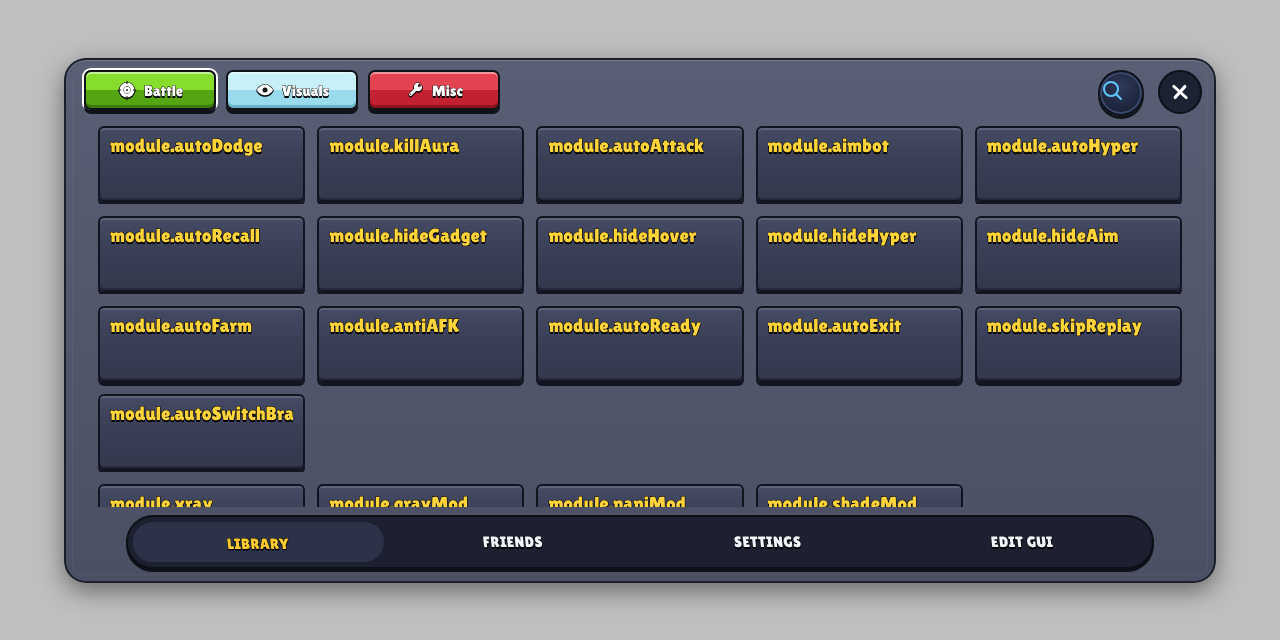
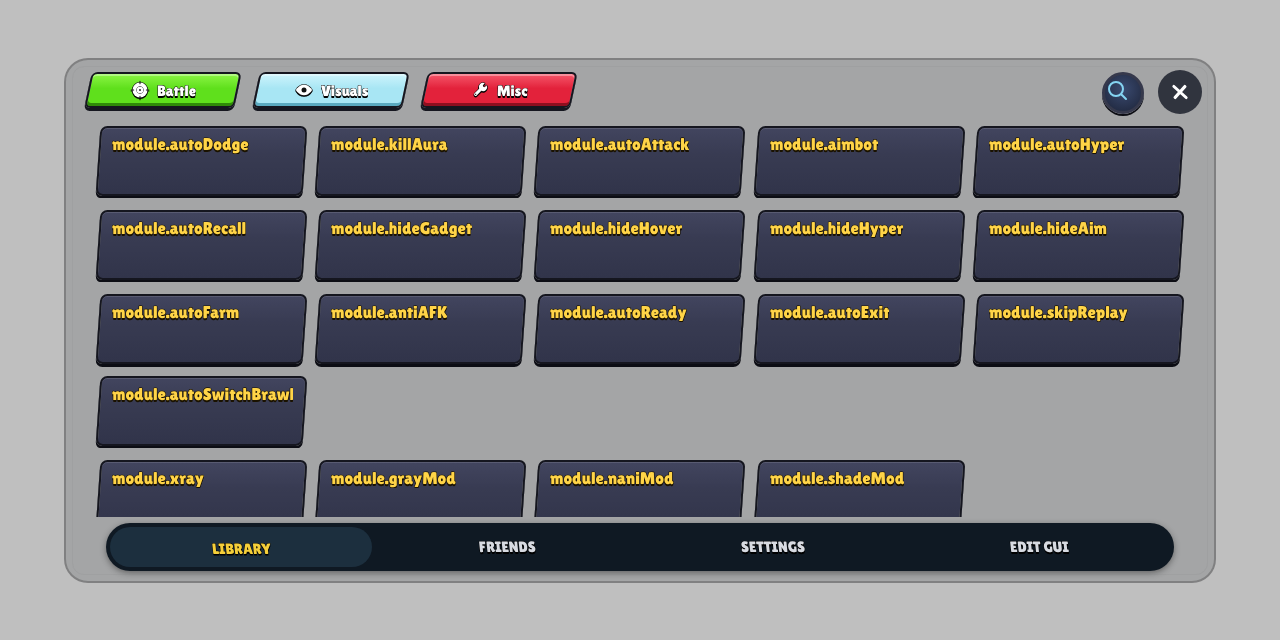
Match Tale Stars colors and shapes measured from reference
Transparent frame, skewed tabs and cards, near-black bottom bar,
Tale palette forced on all themes and popups, real module descriptions.

Claude-Session: https://claude.ai/code/session_01JmN1VkfGL2te8USe1pmgwt

diff --git a/tools/tale_menu/tale_patch.py b/tools/tale_menu/tale_patch.py
@@ -10,45 +10,45 @@ def block(marker):
     return i, n
 
 TALE_CSS = r"""
+:host,:host([data-theme]){--scrim:rgb(0 0 0/.25)!important;--window-bg:#41465c!important;--window-border:#11131c!important;--window-shadow:0 8px 24px #0007!important;--edge:#11131c!important;--topbar-bg:#1c2030!important;--topbar-line:#11131c!important;--topbar-inset:#fff1!important;--sidebar-bg:transparent!important;--sidebar-line:#11131c!important;--content-bg:transparent!important;--panel-bg:#363b51!important;--panel-border:#11131c!important;--panel-shadow:0 3px 0 #11131c!important;--panel-divider:#0003!important;--text:#f2f4fa!important;--text-muted:#c9d0e3!important;--text-faint:#9aa3bb!important;--btn-top:#4a5069!important;--btn-bottom:#373c52!important;--btn-shadow:#11131c!important;--btn-border:#11131c!important;--btn-text:#fff!important;--btn-stroke:#000!important;--btn-active-top:#4a5069!important;--btn-active-bottom:#373c52!important;--btn-glow:#ffd43b80!important;--primary-top:#ffd43b!important;--primary-bottom:#f2a91c!important;--primary-shadow:#9a6407!important;--primary-text:#fff!important;--primary-border:#11131c!important;--row-hover:#fff1!important;--nav-border:#11131c!important;--dot-off:#2a2f42!important;--accent:#ffd43b!important;--accent-edge:#ffd43bcc!important;--track-off:#252a3b!important;--track-on:#6fe24a!important;--track-border:#11131c!important;--thumb-border:#11131c!important;--slider-thumb-top:#ffe27a!important;--slider-thumb-bottom:#ffd43b!important;--slider-thumb-edge:#11131c!important;--slider-glow:#ffd43b99!important;--value:#ffd43b!important;--search-bg:#0004!important;--search-border:#11131c!important;--float-top:#2c3044e6!important;--float-mid:#2c3044e6!important;--float-bottom:#2c3044e6!important;--float-border:#11131c!important;--float-panel-top:#3a3f55eb!important;--float-panel-bottom:#2c3044f0!important;--float-panel-border:#11131c!important;--float-chip:linear-gradient(180deg,#ffd43b,#f2a91c)!important}
 :host .scrim{background:rgb(0 0 0 / .25)!important}
-:host .window,:host([data-theme]) .window{background:linear-gradient(180deg,rgb(78 84 108 / .9),rgb(62 67 90 / .9))!important;border:2px solid rgb(20 22 32 / .85)!important;border-radius:22px!important;box-shadow:0 8px 24px rgb(0 0 0 / .45),inset 0 1px rgb(255 255 255 / .18)!important;overflow:visible!important}
+:host .window,:host([data-theme]) .window{background:rgb(24 28 40 / .16)!important;-webkit-backdrop-filter:blur(6px);backdrop-filter:blur(6px);border:2px solid rgb(0 0 0 / .22)!important;border-radius:24px!important;box-shadow:none!important;overflow:visible!important}
 :host .window-body,:host([right-handed]) .window-body{display:flex!important;flex-direction:column!important;grid-template-columns:none!important;min-height:0}
 :host .sidebar,:host([right-handed]) .sidebar{order:0!important;flex-direction:row!important;align-items:center!important;width:auto!important;min-width:0!important;max-width:none!important;background:none!important;border:0!important;padding:14px 70px 8px 18px!important;gap:10px!important;overflow-x:auto!important;overflow-y:visible!important}
 :host .sidebar>*{display:flex!important;flex-direction:row!important;flex-wrap:nowrap!important;gap:10px!important;background:none!important;border:0!important;padding:0 0 5px!important;margin:0!important;overflow:visible!important}
 :host .content,:host([right-handed]) .content{order:1!important;background:none!important;border:0!important}
-:host .sidebar .nav-item{--t:#86dd2c;--b:#55a512;--e:#3b7a08;flex:0 0 auto!important;display:flex!important;flex-direction:row!important;align-items:center!important;gap:7px!important;height:40px!important;min-height:40px!important;min-width:132px!important;width:auto!important;padding:0 18px!important;margin:0!important;justify-content:center!important;border:2px solid #10121a!important;border-radius:7px!important;transform:none!important;color:#fff!important;font:400 15px/1 var(--font-brand)!important;-webkit-text-stroke:1.1px #000!important;text-shadow:0 2px 0 #000!important;background:linear-gradient(180deg,var(--t) 0 50%,var(--b) 50% 100%)!important;box-shadow:0 4px 0 #10121a,inset 0 2px rgb(255 255 255 / .45),inset 0 -3px var(--e)!important;opacity:1!important;outline:0!important}
-:host .sidebar .nav-item:nth-child(6n+2){--t:#c3f1fb;--b:#93dcef;--e:#62b5cc}
-:host .sidebar .nav-item:nth-child(6n+3){--t:#f2404f;--b:#cf1d2e;--e:#9a0f1c}
-:host .sidebar .nav-item:nth-child(6n+4){--t:#35b2f2;--b:#168bd6;--e:#0d64a3}
-:host .sidebar .nav-item:nth-child(6n+5){--t:#be6cf2;--b:#9a42dc;--e:#6f22aa}
-:host .sidebar .nav-item:nth-child(6n){--t:#ffaa45;--b:#f08a1e;--e:#b85f07}
-:host .sidebar .nav-item:not(.is-active){filter:saturate(.9)}
-:host .sidebar .nav-item.is-active{box-shadow:0 4px 0 #10121a,0 0 0 2px #fff,inset 0 2px rgb(255 255 255 / .5),inset 0 -3px var(--e)!important}
+:host .sidebar .nav-item{--t:#8cf545;--b:#5fe01c;--e:#2f8a08;flex:0 0 auto!important;display:flex!important;flex-direction:row!important;align-items:center!important;gap:7px!important;height:36px!important;min-height:36px!important;min-width:150px!important;width:auto!important;padding:0 20px!important;margin:0 4px!important;justify-content:center!important;border:2px solid #15161f!important;border-radius:6px!important;transform:skew(-12deg)!important;color:#fff!important;font:400 15px/1 var(--font-brand)!important;-webkit-text-stroke:1.2px #1a1a1a!important;text-shadow:0 2px 0 #1a1a1a!important;background:linear-gradient(180deg,var(--t) 0,var(--b) 45%,var(--b) 100%)!important;box-shadow:0 3px 0 #15161f,inset 0 -3px var(--e),inset 0 2px rgb(255 255 255 / .35)!important;opacity:1!important;outline:0!important}
+:host .sidebar .nav-item>*{transform:skew(12deg)}
+:host .sidebar .nav-item:nth-child(6n+2){--t:#cdf4fc;--b:#a8e6f4;--e:#5aa9bf}
+:host .sidebar .nav-item:nth-child(6n+3){--t:#f5566a;--b:#e3223b;--e:#8e0f1f}
+:host .sidebar .nav-item:nth-child(6n+4){--t:#4fc6f7;--b:#1fa8e8;--e:#0b5f96}
+:host .sidebar .nav-item:nth-child(6n+5){--t:#c46ae0;--b:#a43fc4;--e:#5f1d78}
+:host .sidebar .nav-item:nth-child(6n){--t:#ffb070;--b:#f7904a;--e:#b45512}
 :host .sidebar .nav-name{display:inline!important;color:#fff!important;font:inherit!important;white-space:nowrap}
 :host .sidebar .nav-page-icon{width:20px!important;height:20px!important;color:#fff!important;filter:drop-shadow(0 1px 0 #000)}
 :host .sidebar .nav-count{display:none!important}
-:host .sidebar .nav-search{flex:0 0 auto!important;width:46px!important;height:46px!important;min-height:46px!important;margin:0 0 0 6px!important;border-radius:50%!important;border:2px solid #10121a!important;background:radial-gradient(circle at 50% 35%,#2e3a5a,#151b2c)!important;box-shadow:0 3px 0 #10121a,inset 0 0 0 2px #3c4a72!important;color:#5ec8ff!important}
+:host .sidebar .nav-search{flex:0 0 auto!important;width:42px!important;height:42px!important;min-height:42px!important;margin:0 0 0 8px!important;border-radius:50%!important;border:3px solid #36394c!important;background:radial-gradient(circle at 50% 40%,#3a4a70,#1d2438)!important;box-shadow:0 2px 0 #0c0d14!important;color:#85d4f2!important}
 :host .nav-group-head,:host .nav-group-label{display:none!important}
 :host .content-head:has(.content-tab),:host .content-tab{display:none!important}
 :host .panels,:host .panel-col,:host .panels-stacked{gap:10px!important}
 :host .panel:has(.panel-tiles){background:none!important;border:0!important;box-shadow:none!important}
 :host .panel:has(.panel-tiles)>.panel-head{display:none!important}
 :host .panel-tiles{grid-template-columns:repeat(5,minmax(0,1fr))!important;gap:12px!important;padding:2px 6px!important}
-:host .tile,:host .tile.is-on{min-height:76px!important;border:2px solid #121420!important;border-radius:6px!important;background:linear-gradient(180deg,#454b64 0,#3a3f56 45%,#33384d 100%)!important;box-shadow:0 4px 0 #121420,inset 0 2px rgb(255 255 255 / .14),inset 0 -2px rgb(0 0 0 / .25)!important;transform:none!important}
+:host .tile,:host .tile.is-on{min-height:70px!important;border:2px solid #15161f!important;border-radius:7px!important;background:linear-gradient(180deg,#42455f,#383b52 40%,#31344a)!important;box-shadow:0 3px 0 #0c0d14,inset 0 1px rgb(255 255 255 / .12)!important;transform:skew(-4deg)!important}
 :host .tile:before{display:none!important}
-:host .tile.is-on{border-color:#121420!important;box-shadow:0 4px 0 #121420,inset 0 0 0 2px #6fe24a,inset 0 2px rgb(255 255 255 / .14)!important}
-:host .tile-toggle{gap:4px!important;padding:8px 10px!important;justify-content:flex-start!important}
-:host .tile-name{font:400 19px/1.05 var(--font-brand)!important;color:#ffd43b!important;-webkit-text-stroke:1.1px #000!important;text-shadow:0 2px 0 #000!important;white-space:nowrap;overflow:hidden;text-overflow:clip;max-width:100%}
-:host .tile-desc{color:#f2f4fa;font:600 8.5px/1.25 var(--font);overflow:hidden;display:-webkit-box;-webkit-line-clamp:3;-webkit-box-orient:vertical;max-width:100%}
+:host .tile.is-on{box-shadow:0 3px 0 #0c0d14,inset 0 0 0 2px #5fe01c!important}
+:host .tile-toggle{gap:3px!important;padding:8px 10px 8px 12px!important;justify-content:flex-start!important;transform:skew(4deg)}
+:host .tile-name{font:400 17px/1.05 var(--font-brand)!important;color:#ffd447!important;-webkit-text-stroke:1.2px #1a1200!important;text-shadow:0 2px 0 #1a1200!important;white-space:nowrap;overflow:hidden;max-width:100%}
+:host .tile-desc{color:#eef0f6;font:700 8.5px/1.25 var(--font);overflow:hidden;display:-webkit-box;-webkit-line-clamp:3;-webkit-box-orient:vertical;max-width:100%}
 :host .tile-pill,:host .tile-glyph{display:none!important}
-:host .tile-side{flex:0 0 26px!important;border-left:1px solid rgb(0 0 0 / .35)!important}
-:host .window>.topbar{order:9!important;position:static!important;justify-content:space-between!important;margin:8px 60px 12px!important;padding:5px!important;border:2px solid #0e1018!important;border-radius:30px!important;background:#1c2030!important;box-shadow:0 3px 0 #0e1018!important;gap:4px!important}
+:host .tile-side{position:absolute!important;right:2px;bottom:2px;width:26px;height:26px;flex:none!important;border:0!important;opacity:.45}:host .tile-side-btn+.tile-side-btn{display:none}
+:host .window>.topbar{order:9!important;position:static!important;justify-content:space-between!important;margin:6px 40px 10px!important;padding:4px!important;border:0!important;border-radius:28px!important;background:#0f1923!important;box-shadow:0 2px 6px #0006!important;gap:4px!important}
 :host .topbar .brand,:host .topbar .action-icon,:host .topbar .config-chevron-box,:host .topbar .config-icon{display:none!important}
-:host .topbar .config,:host .topbar .action{flex:1 1 0!important;width:auto!important;min-width:0!important;height:40px!important;padding:0 14px!important;display:flex!important;align-items:center!important;justify-content:center!important;transform:none!important;background:none!important;border:0!important;border-radius:24px!important;box-shadow:none!important;color:#f3f5fb!important;font:400 15px/1 var(--font-brand)!important;text-transform:uppercase!important;letter-spacing:.03em}
-:host .topbar .config:first-of-type{color:#ffcb2e!important;background:#2c3247!important}
+:host .topbar .config,:host .topbar .action{flex:1 1 0!important;width:auto!important;min-width:0!important;height:40px!important;padding:0 14px!important;display:flex!important;align-items:center!important;justify-content:center!important;transform:none!important;background:none!important;border:0!important;border-radius:24px!important;box-shadow:none!important;color:#d8dbe2!important;font:400 15px/1 var(--font-brand)!important;text-transform:uppercase!important}
+:host .topbar .config:first-of-type{color:#f5cf3a!important;background:#1c2f3e!important}
 :host .topbar-actions{display:contents!important}
 :host .topbar .action-label{display:inline!important;color:inherit!important;font:inherit!important}
-:host .topbar .action-close{position:absolute!important;flex:none!important;top:10px!important;right:12px!important;width:44px!important;height:44px!important;padding:0!important;border-radius:50%!important;background:#1d2232!important;border:2px solid #0e1018!important}
+:host .topbar .action-close{position:absolute!important;flex:none!important;top:10px!important;right:12px!important;width:44px!important;height:44px!important;padding:0!important;border-radius:50%!important;background:rgb(20 24 36 / .8)!important;border:0!important}
 :host .topbar .action-close .action-icon{display:block!important;width:22px!important;height:22px!important;color:#fff!important;filter:grayscale(1) brightness(3)}
 [class*=season]{display:none!important}
 """
@@ -74,7 +74,7 @@ def drop_season(css):
                     out.append(sel + '{' + inner + '}')
             else:
                 out.append(css[i:k])
-        elif 'season' not in sel:
+        elif 'season' not in sel and not re.search(r'data-theme="(?!dark)', sel):
             out.append(css[i:k])
         i = k
     return ''.join(out)
@@ -96,12 +96,12 @@ print('css free bytes left', pad)
 bi, bn = block(b'/* Local menu client */')
 js = bytes(d[bi:bi + bn]).decode('utf-8')
 old = 'n("span",{class:"tile-name"},i),s)'
-new = 'n("span",{class:"tile-name"},i),n("small",{class:"tile-desc"},this.explanation(t)||""),s)'
+new = 'n("span",{class:"tile-name"},i),n("small",{class:"tile-desc"},(e?.description?l(e.description):this.explanation(t))||""),s)'
 assert js.count(old) == 1
 js = js.replace(old, new).replace('/* Local menu client */\n', '', 1)
-trim = ", including any changes you've made"
-assert js.count(trim) == 1
-js = js.replace(trim, '', 1)
+for trim in (", including any changes you've made", " - reverted to the previous scale"):
+    assert js.count(trim) == 1
+    js = js.replace(trim, '', 1)
 jb = js.encode()
 jb += b' ' * (bn - len(jb))
 assert len(jb) == bn
